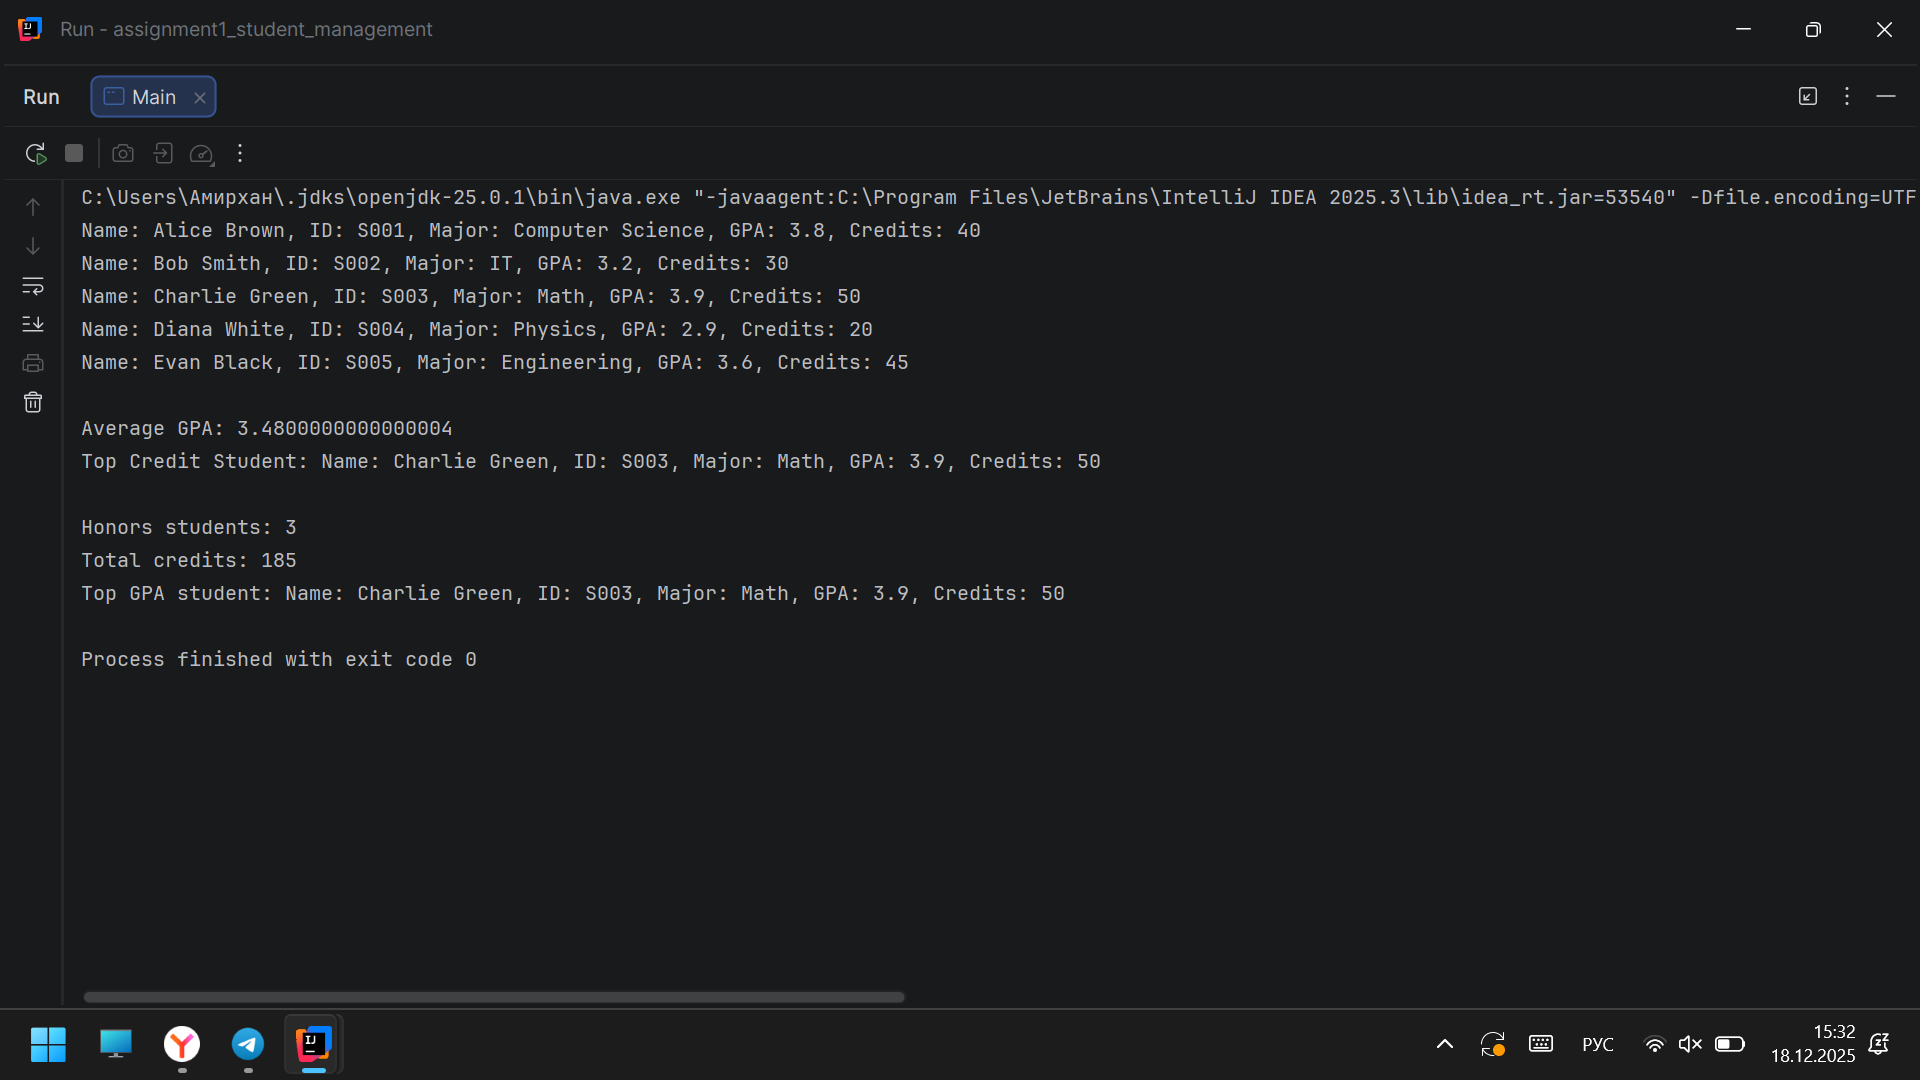
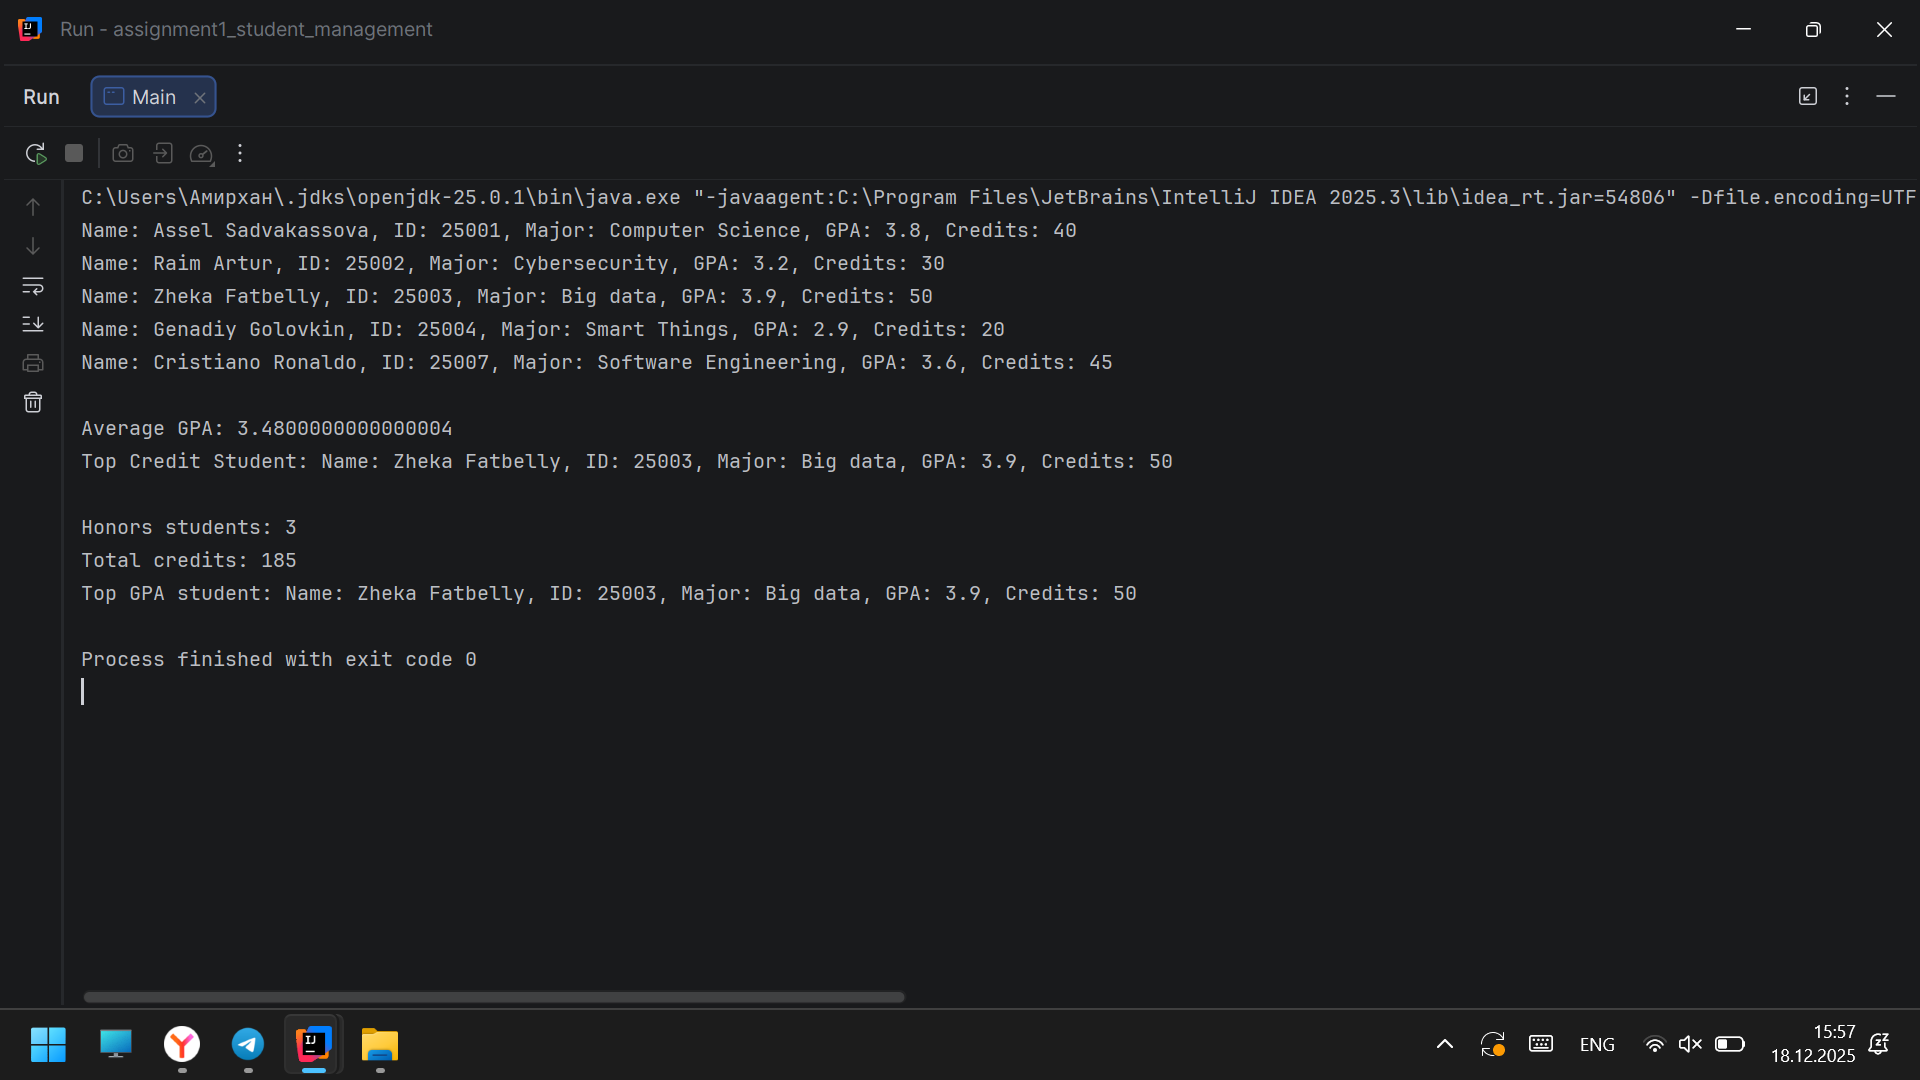
perf(cleanup): code formatting and minor fixes

diff --git a/src/Main.java b/src/Main.java
@@ -2,11 +2,11 @@ public class Main {
 
     public static void main(String[] args) {
 
-        Student s1 = new Student("Alice Brown", "S001", "Computer Science");
-        Student s2 = new Student("Bob Smith", "S002", "IT");
-        Student s3 = new Student("Charlie Green", "S003", "Math");
-        Student s4 = new Student("Diana White", "S004", "Physics");
-        Student s5 = new Student("Evan Black", "S005", "Engineering");
+        Student s1 = new Student("Assel Sadvakassova", "25001", "Computer Science");
+        Student s2 = new Student("Raim Artur", "25002", "Cybersecurity");
+        Student s3 = new Student("Zheka Fatbelly", "25003", "Big data");
+        Student s4 = new Student("Genadiy Golovkin", "25004", "Smart Things");
+        Student s5 = new Student("Cristiano Ronaldo", "25007", "Software Engineering");
 
         s1.updateGPA(3.8);
         s1.addCredits(40);
